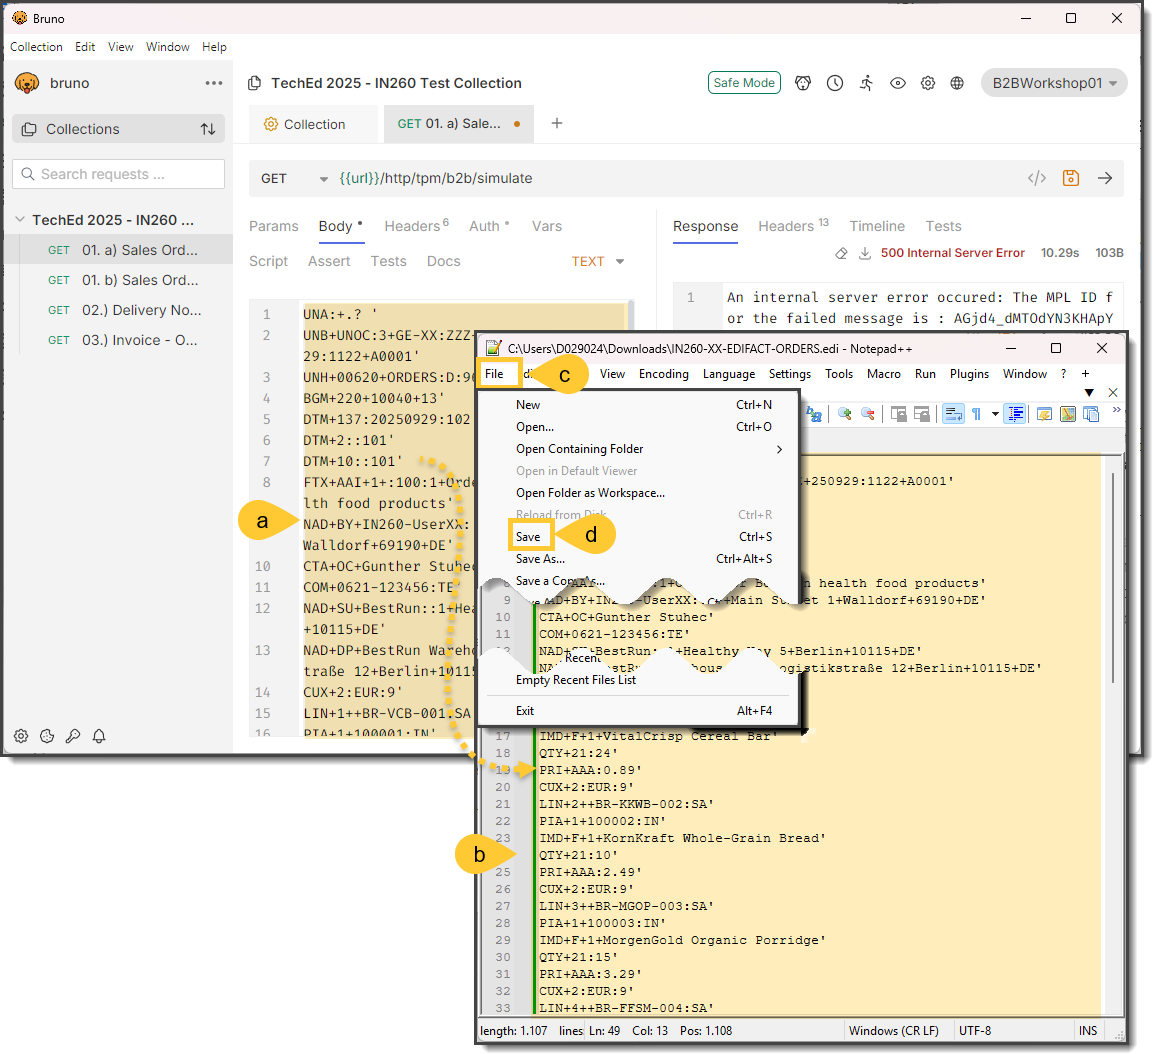
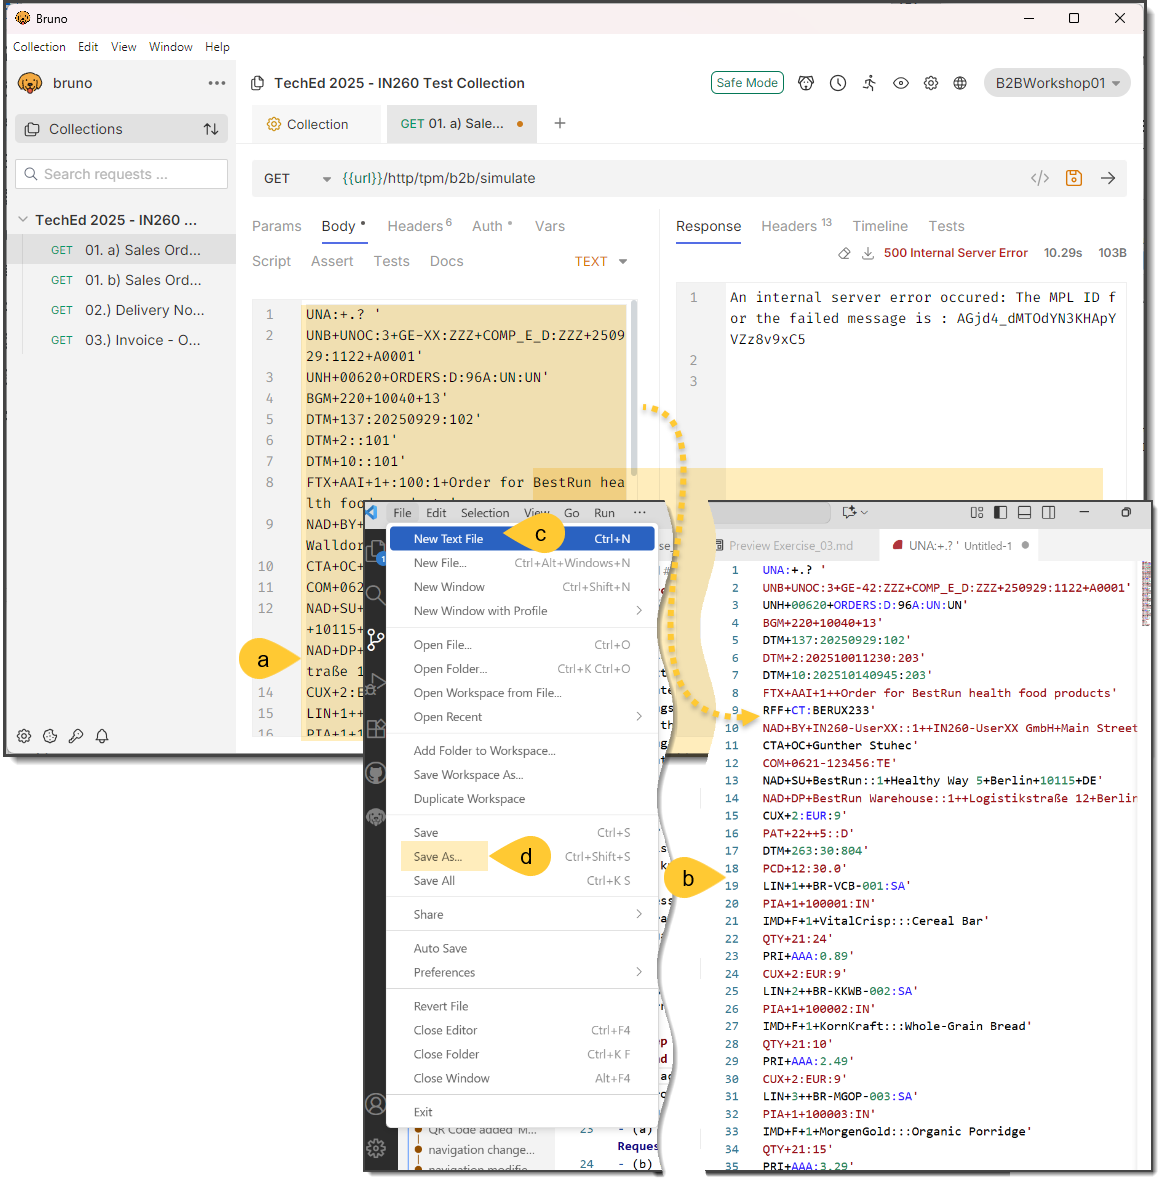
Update Notepad

diff --git a/exercises/Exercise_03.md b/exercises/Exercise_03.md
@@ -47,9 +47,9 @@ You have to check now why there is an error. For this purpose, you should open t
 ## Step 3 - Save the sender interchange payload
 You need to take further steps, such as creating the source MIG and the UN/EDIFACT sender interchange payload for the business transaction activity 01. a) Create the Sales Order Request as a separate file. Therefore, follow the following steps. 
 - (a) Go to the API test, especially in the HTTP GET request: **01. a) Sales Order Request** and copy the payload shown in the tab **Body** into the clipboard.
-- (b) Open the Notepad++ tool and paste the payload into a new file.
+- (b) Open the Visual Studio Code and goto **File --> New Text File** and paste the payload into a new file.
 - (c) Open the menu **File**.
-- (d) Select **Save** to save the payload as `IN260-XX-EDIFACT-ORDERS.edi` in your downloads folder.
+- (d) Select **Save As** to save the payload as `IN260-XX-EDIFACT-ORDERS.edi` in your downloads folder.
 
 ![IN260 Figure 03.03](assets/IN260_03.03.png)
 
